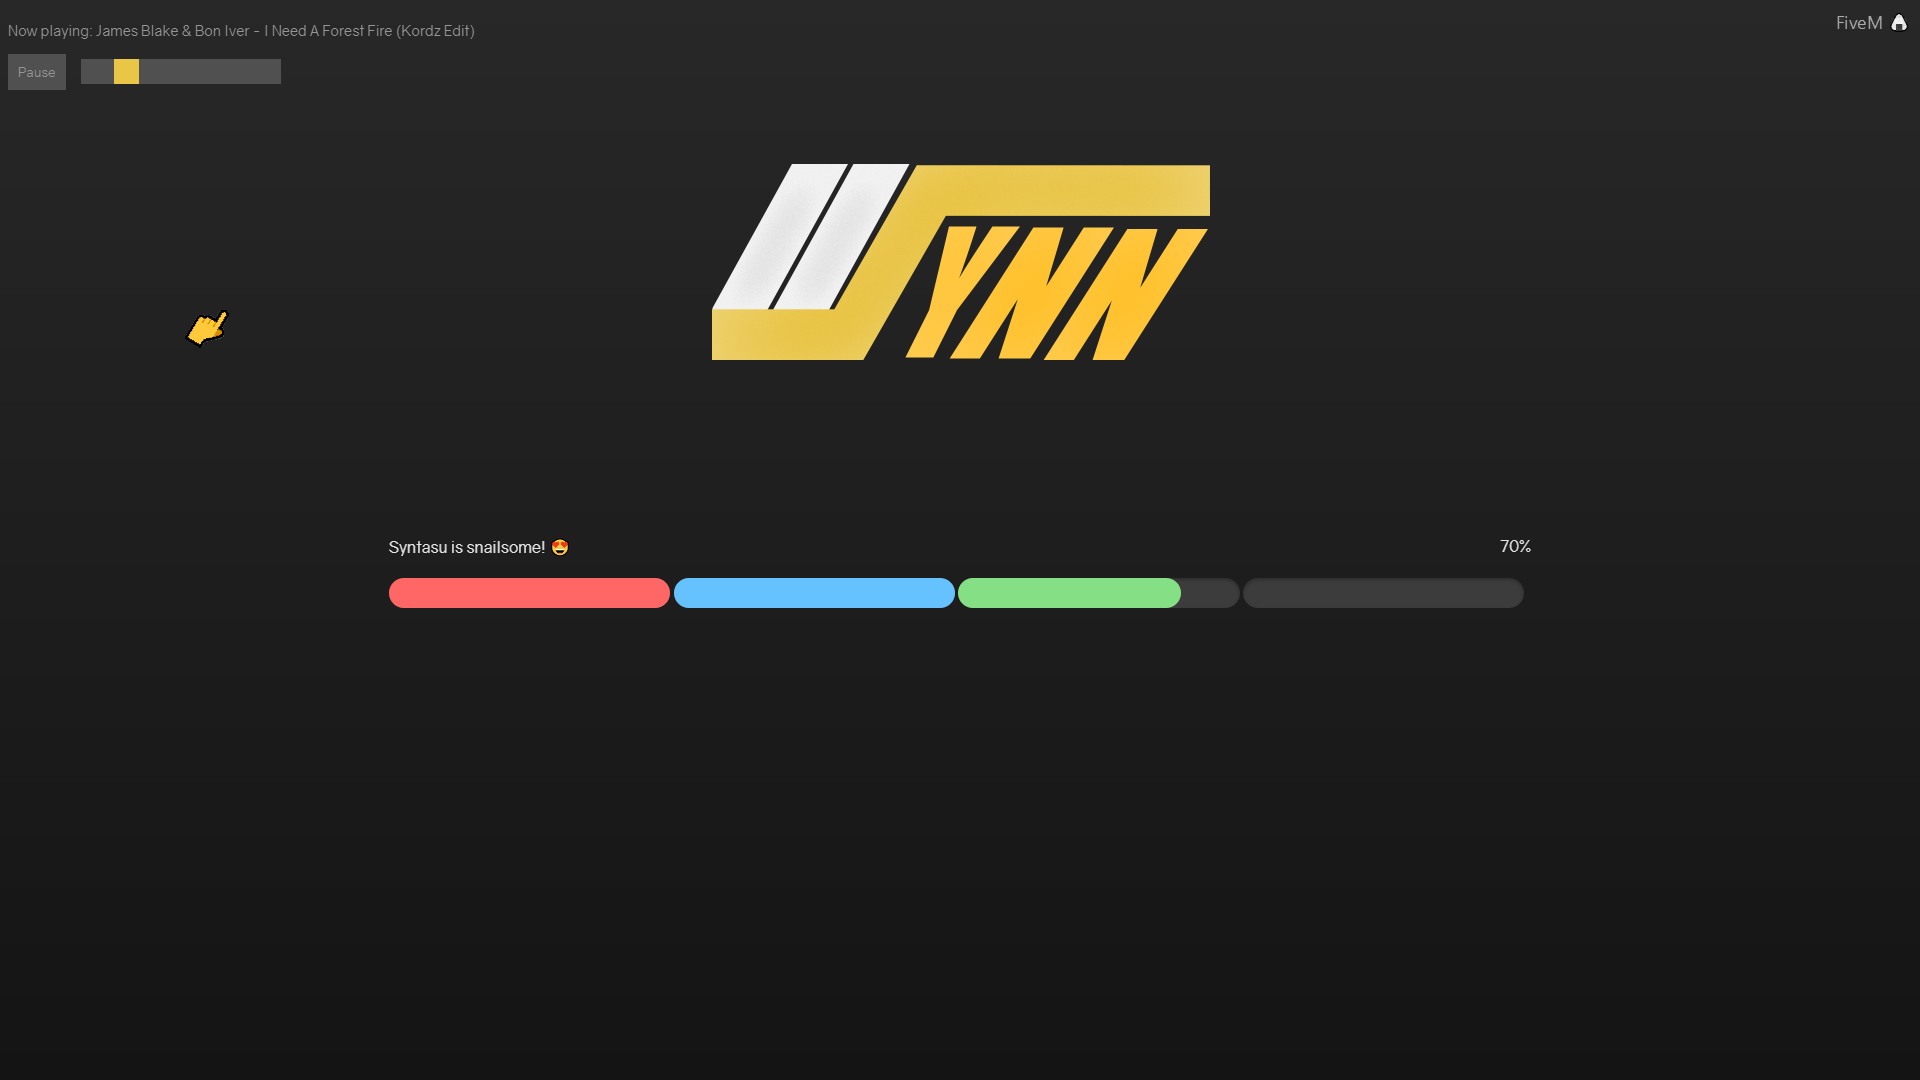
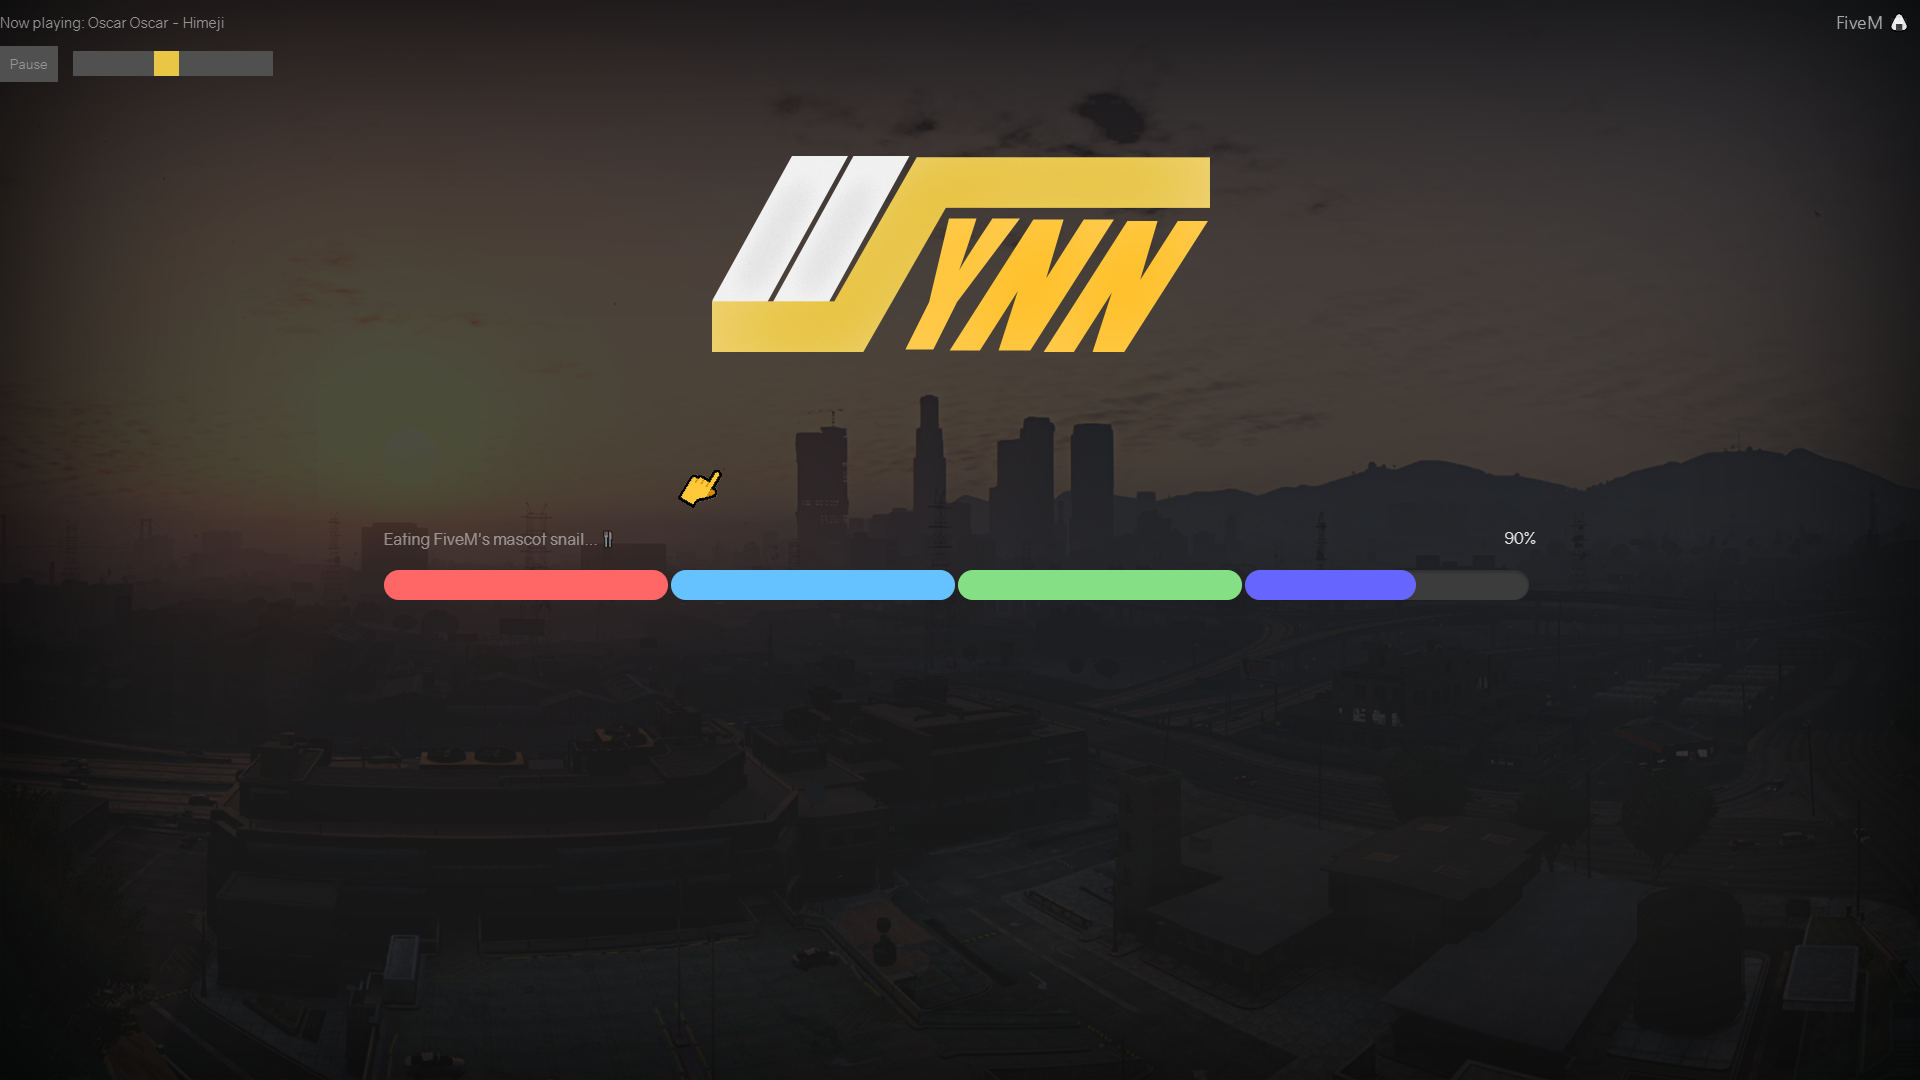
Bug fixes and README updated

Changed region(s): [[0.0312, 0.1222, 0.9375, 0.5806], [0.0, 0.0, 0.1562, 0.0917], [0.9688, 0.0, 1.0, 0.0306]]

diff --git a/js/config.js b/js/config.js
@@ -18,7 +18,7 @@ var config =
             1 = Multiple progressbars
             2 = Collapsed progressbars
      */
-    progressBarType: 2,
+    progressBarType: 1,
 
     /*
         Here you can disable some of progressbars.
@@ -118,7 +118,6 @@ var config =
         "img/bg1.jpg",
         "img/bg2.jpg",
         "img/bg3.jpg",
-        
     ],
 
     /*

diff --git a/js/progressbar-renderer.js b/js/progressbar-renderer.js
@@ -82,7 +82,7 @@ function UpdateSingle()
     UpdateTotalProgress();
 
     var progressBar = document.getElementById("pb0");
-    progressBar.value = progressCache[0];
+    progressBar.value = progressCache[10];
 
 }
 

diff --git a/README.md b/README.md
@@ -9,21 +9,20 @@ A simple loading screen resource for FiveM.
 - Progressbar  
     - Can have multiple progress bars for each type.
     - Can have single progress bars for all types
-
 - Loading screen image
 - Rotating loading messages
 - Music player
     - Play videos directly from youtube.
     - Pause and unpause and control volume on the fly.
-
+- Backgrounds
+    - Rotating backgrounds with fade in and fade out.
 - All of the above can be edited in the config.
 
 <hr>
 
 ## Planned
  
-- Backgrounds
-    - Rotating backgrounds with fade in and fade out.
+- Open for idea's! <3
 
 <hr>
 
@@ -106,6 +105,6 @@ If you wish to contact me:
 - Via the [FiveM forums](https://forum.fivem.net/u/syntasu)
 - Via e-mail: `fivem at synn.nl`
 
-&nbsp; &nbsp; &nbsp;&nbsp; &nbsp; &nbsp;  <sub><sub>Discord is the prefered way of contact.</sub></sub>
+&nbsp; &nbsp;&nbsp; &nbsp; &nbsp;  <sub><sub>Discord is the prefered way of contact.</sub></sub>
 
 <hr>
